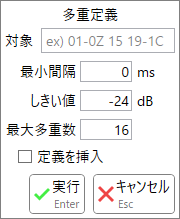
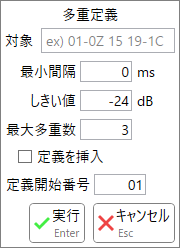
version 0.7.13

Changed region(s): [[0.0278, 0.0274, 0.9722, 0.6575], [0.0278, 0.6849, 0.9722, 0.9863], [0.0278, 0.137, 0.1944, 0.2192]]

diff --git a/docs/history.html b/docs/history.html
@@ -11,6 +11,25 @@
             <ul>
                 <li>
                     <details open>
+                        <summary class="a-like">Version 0.7.13 (2025/07/06)</summary>
+                        <ul>
+                            <li>
+                                仕様変更
+                                <ul>
+                                    <li>
+                                        <a href="bms_multiDef.html">BMSモード/多重定義</a>において、定義数が上限を超えうる場合、変更をキャンセルできるようにしました。
+                                    </li>
+                                    <li>
+                                        <a href="bms_slice.html">BMSモード/スライス</a>と<a href="bms_multiDef.html">BMSモード/多重定義</a>において、追加される定義の開始番号を指定できるよにしました。
+                                    </li>
+                                </ul>
+                            </li>
+                        </ul>
+                        <br>
+                    </details>
+                </li>
+                <li>
+                    <details open>
                         <summary class="a-like">Version 0.7.12 (2025/06/22)</summary>
                         <ul>
                             <li>
@@ -42,7 +61,7 @@
                     </details>
                 </li>
                 <li>
-                    <details open>
+                    <details>
                         <summary class="a-like">Version 0.7.11 (2025/06/07)</summary>
                         <ul>
                             <li>
@@ -99,7 +118,7 @@
                     </details>
                 </li>
                 <li>
-                    <details open>
+                    <details>
                         <summary class="a-like">Version 0.7.10 (2025/05/18)</summary>
                         <ul>
                             <li>
@@ -183,7 +202,7 @@
                     </details>
                 </li>
                 <li>
-                    <details open>
+                    <details>
                         <summary class="a-like">Version 0.7.9 (2025/05/15)</summary>
                         <ul>
                             <li>

diff --git a/docs/bms_slice.html b/docs/bms_slice.html
@@ -45,9 +45,9 @@
                 <h2>説明</h2>
                 要素をクリックすると説明が表示されます。
                 <div class="image-map" src="img/bms_slice.png" maps="
-                      7,  1,128,404, bms/slice_lane_wave.html, center;
-                    135,  1, 48,404, bms/slice_lane_apply.html, center;
-                    183,  1, 48,404, bms/slice_lane_cut.html, center;
+                      7,  1,128,433, bms/slice_lane_wave.html, center;
+                    135,  1, 48,433, bms/slice_lane_apply.html, center;
+                    183,  1, 48,433, bms/slice_lane_cut.html, center;
                     259,  1, 69, 38, bms/slice_open.html;
                     328,  1,145, 38, bms/slice_save.html;
                     576,  1, 69, 38, bms/slice_close.html;
@@ -61,10 +61,11 @@
                     452, 87,193, 67, bms/slice_offset.html;
                     259,159,188,150, wave/slice_leftProcess.html;
                     447,159,198,150, wave/slice_rightProcess.html;
-                    266,333,179, 29, bms/slice_baseName.html;
-                    349,367, 90, 40, bms/slice_export.html;
-                    461,332,104, 81, bms/slice_replace.html;
-                    576,367, 56, 40, bms/slice_execute.html;
+                    266,348,179, 29, bms/slice_baseName.html;
+                    349,396, 90, 40, bms/slice_export.html;
+                    461,333,177, 29, bms/slice_defStart.html;
+                    461,361,104, 81, bms/slice_replace.html;
+                    576,396, 56, 40, bms/slice_execute.html;
                     ">
                 </div>
                 <ul>

diff --git a/docs/bms/slice_defStart.html b/docs/bms/slice_defStart.html
@@ -1,0 +1,14 @@
+<h3>定義開始番号</h3>
+<ul>
+    <li>
+        空白の定義番号を検索する開始位置を指定します。
+    </li>
+    <li>
+        定義を追加する際には、まずこの番号が未定義(空白)かどうかを確認し、<br>
+        空白ならこの番号を使い、定義済みなら次の番号について同じように確認します。
+    </li>
+    <li>
+        空白の定義番号がノートから参照されているかは<b>確認しません</b>。<br>
+        そのようなノートが存在する場合、意図しない音が鳴るようになる可能性があります。
+    </li>
+</ul>

diff --git a/docs/bms_multiDef.html b/docs/bms_multiDef.html
@@ -31,8 +31,9 @@
                       1, 86,178, 29, bms/multiDef_threshold.html;
                       1,115,178, 29, bms/multiDef_maxCount.html;
                       1,143,178, 27, bms/multiDef_insert.html;
-                     29,174, 56, 40, bms/multiDef_execute.html;
-                     93,174, 82, 40, common/cancel_restore.html;">
+                      1,170,178, 29, bms/slice_defStart.html;
+                     29,203, 56, 40, bms/multiDef_execute.html;
+                     93,203, 82, 40, common/cancel_restore.html;">
                 </div>
             </div>
         </div>

diff --git a/docs/bms/multiDef_insert.html b/docs/bms/multiDef_insert.html
@@ -4,6 +4,11 @@
         チェックした場合、多重定義は<b>元となる定義番号の直後</b>に挿入されます。
     </li>
     <li>
-        チェックしなかった場合、多重定義は定義リストの<b>末尾</b>に追加されます。
+        チェックしなかった場合、多重定義は「定義開始番号」以降の空白に割り当てられます。
+        <ul>
+            <li>
+                空白が飛び飛びの場合は<b>飛び飛びの定義になる</b>ためご注意ください。
+            </li>
+        </ul>
     </li>
 </ul>

diff --git a/docs/bms/slice_execute.html b/docs/bms/slice_execute.html
@@ -8,7 +8,7 @@
         各スライスの名前を<b>#WAV定義リスト</b>に追加し、配置オプションに従って配置します。
         <ul>
             <li>
-                定義番号は、定義リストの空いている番号が割り当てられます。
+                追加される定義は「定義開始番号」以降の空白に割り当てられます。
                 <ul>
                     <li>
                         空白が飛び飛びの場合は<b>飛び飛びの定義になる</b>ためご注意ください。

diff --git a/docs/index.html b/docs/index.html
@@ -11,7 +11,7 @@
             <div class="stack">
                 <a href="https://github.com/Kuroki-Narumi/BmsMaker3-Manual/releases" target="_blank">
                     <img src="img/logo.png" style="max-width: 100%;"/><br>
-                    Version 0.7.11<br>
+                    Version 0.7.13<br>
                 </a>
                 オールインワン型BMS制作補助ツール<br>
             </div>
